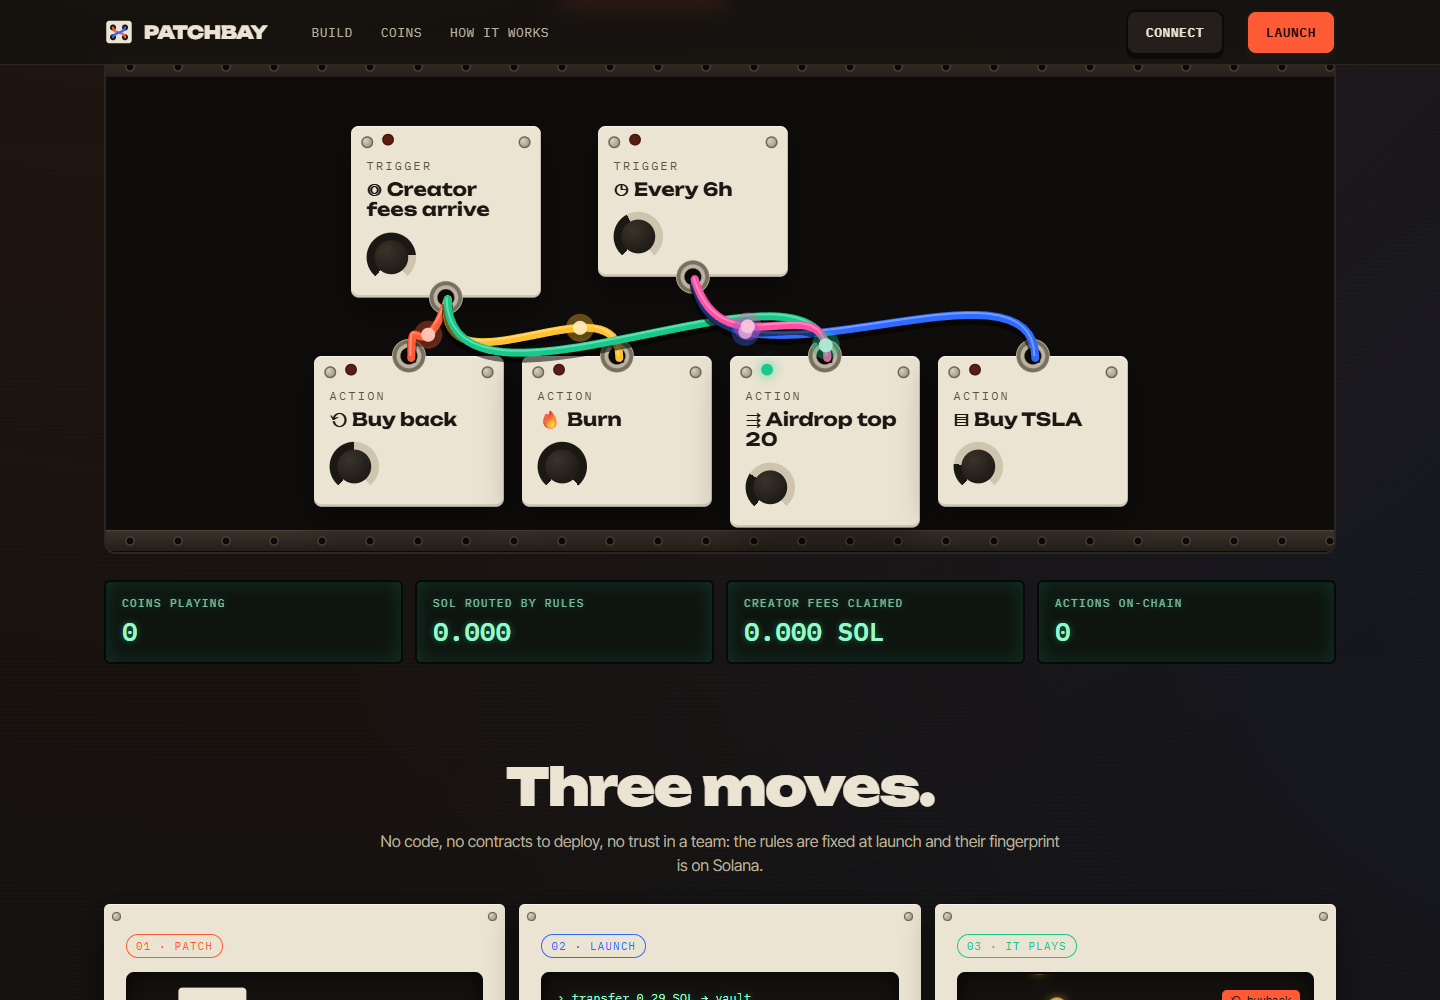
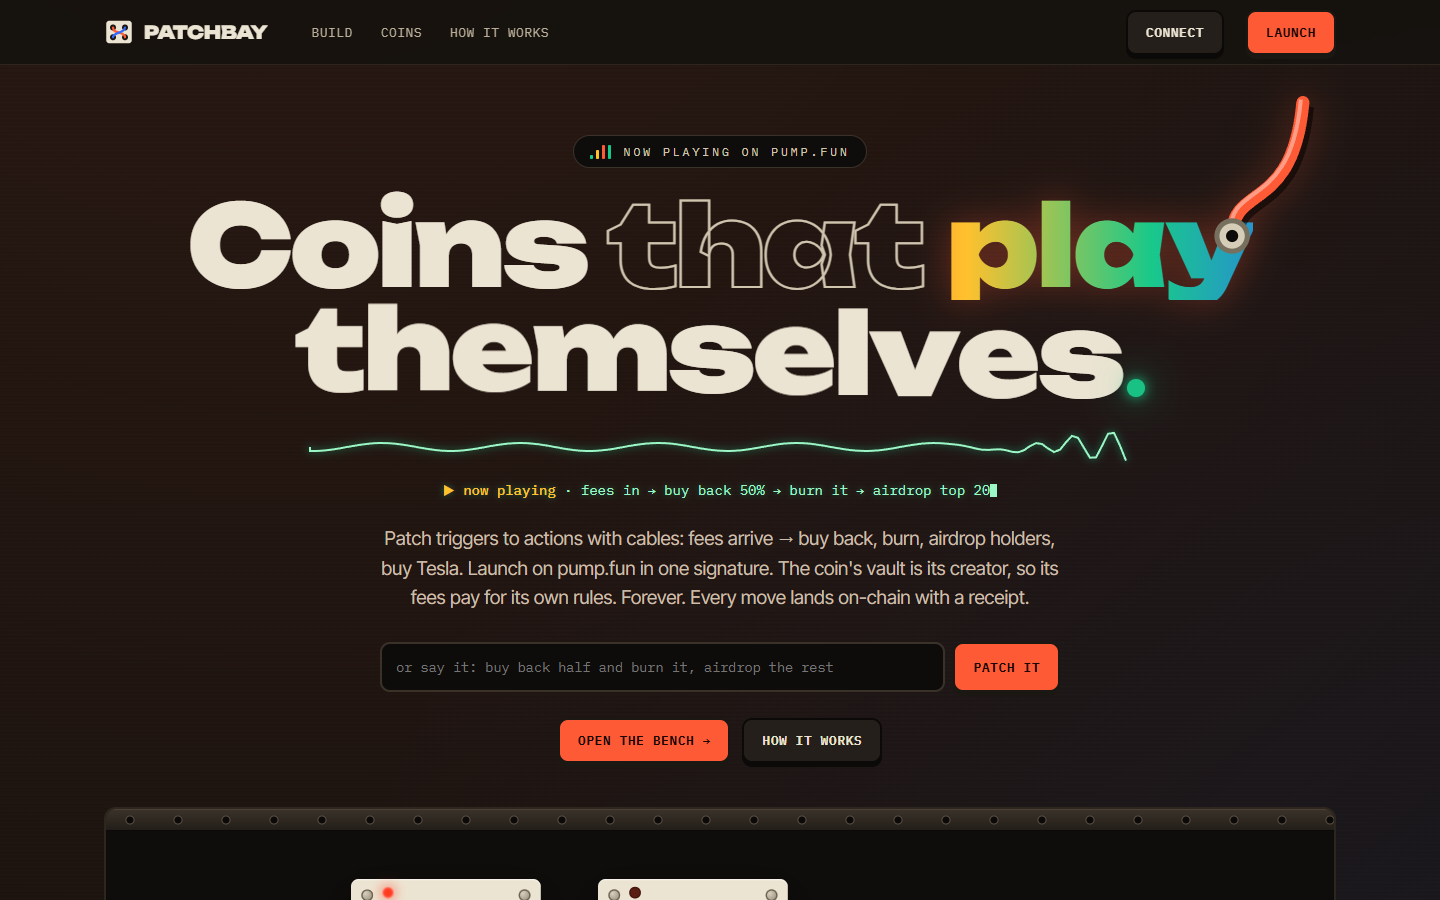
Hero headline as a live signal: flowing cable-colour 'play' with a plugged cable, waving 'themselves' + LED, scope trace, now-playing readout

diff --git a/client/index.html b/client/index.html
@@ -4,7 +4,23 @@
 <meta property="og:title" content="PATCHBAY · coins that play themselves"><meta property="og:description" content="Wire triggers to actions with patch cables. Launch on pump.fun. Your coin runs the patch forever on its own creator fees.">
 <style>
 .hero{text-align:center;padding:70px 0 34px}
-.hero h1{font-size:clamp(50px,7.6vw,118px)}.hero h1 span{color:var(--tom)}
+.hero h1{font-size:clamp(50px,7.8vw,124px);line-height:.98;position:relative;display:inline-block}
+.kick{display:inline-flex;align-items:center;gap:12px;font-family:var(--mono);font-size:12px;letter-spacing:.22em;color:#cfc5af;border:1.5px solid #3a3229;border-radius:99px;padding:8px 16px;background:#0f0d0b}
+.vu{display:inline-flex;gap:3px;align-items:flex-end;height:14px}.vu i{width:3px;background:var(--min);border-radius:1px;animation:vu .9s ease-in-out infinite}.vu i:nth-child(2){animation-delay:.15s;background:var(--mus)}.vu i:nth-child(3){animation-delay:.3s;background:var(--tom)}.vu i:nth-child(4){animation-delay:.45s}
+@keyframes vu{0%,100%{height:3px}50%{height:14px}}
+.l1{display:block;color:var(--panel)}.l1 .that{color:transparent;-webkit-text-stroke:2px #cfc5af;font-style:normal}
+/* "play": the signal itself: cable colours flowing through the letters, glowing, with a cable plugged in */
+.play{position:relative;display:inline-block;background:linear-gradient(90deg,#ff5a36,#ffc12e,#19c98a,#2f6bff,#ff4fa3,#ff5a36);background-size:300% 100%;-webkit-background-clip:text;background-clip:text;color:transparent;animation:flow 6s linear infinite;filter:drop-shadow(0 0 18px rgba(255,90,54,.35))}
+@keyframes flow{to{background-position:300% 0}}
+.plug{position:absolute;right:-.62em;top:-.42em;width:.9em;height:.9em;overflow:visible;pointer-events:none}
+/* "themselves": letters ride a travelling wave; the full stop is an LED */
+.l2{display:block;color:var(--panel);white-space:nowrap}.l2 .ch{display:inline-block;animation:wave 2.6s ease-in-out infinite}
+@keyframes wave{0%,100%{transform:translateY(0)}25%{transform:translateY(-.06em)}50%{transform:translateY(0)}}
+.dot{display:inline-block;width:.16em;height:.16em;border-radius:50%;background:var(--min);box-shadow:0 0 .12em var(--min),0 0 .4em var(--min);margin-left:.04em;animation:ledp 1.6s ease-in-out infinite;vertical-align:baseline}
+@keyframes ledp{50%{opacity:.35;box-shadow:0 0 .05em var(--min)}}
+.scope{display:block;width:min(820px,92%);height:46px;margin:14px auto 0;overflow:visible}
+.scope path{fill:none;stroke:#9cf7c6;stroke-width:2;filter:drop-shadow(0 0 4px rgba(25,201,138,.8))}
+.now{font-family:var(--mono);font-size:14px;color:#9cf7c6;margin-top:10px;min-height:20px;text-shadow:0 0 6px rgba(25,201,138,.5)}.now b{color:var(--mus);font-weight:500}
 .hero p{color:#c9bfab;font-size:19px;line-height:1.55;max-width:680px;margin:24px auto 0}
 .cta{display:flex;gap:12px;margin-top:26px;flex-wrap:wrap;justify-content:center}
 .say{display:flex;gap:8px;margin:30px auto 0;max-width:680px}.say input{flex:1;background:#0e0c0a;border:2px solid #3a3229;border-radius:10px;color:var(--panel);font-family:var(--mono);font-size:13.5px;padding:14px;outline:0}.say input:focus{border-color:var(--mus)}
@@ -41,8 +57,10 @@ h2{font-family:var(--disp);font-weight:900;font-size:clamp(32px,4vw,52px);letter
 </style></head><body>
 <main class="wrap">
 <section class="hero">
- <div><div class="silk" style="color:#8d8372">// patchbay · on pump.fun</div>
-  <h1 class="disp" style="margin-top:16px">Coins that <span>play</span><br>themselves.</h1>
+ <div><div class="kick"><span class="vu"><i></i><i></i><i></i><i></i></span>NOW PLAYING ON PUMP.FUN</div><br>
+  <h1 class="disp" style="margin-top:22px"><span class="l1">Coins <em class="that">that</em> <span class="play">play<svg class="plug" viewBox="0 0 100 100"><path d="M10 92 C 10 40, 70 70, 80 -40" stroke="#0008" stroke-width="16" fill="none" transform="translate(3,4)"/><path d="M10 92 C 10 40, 70 70, 80 -40" stroke="#ff5a36" stroke-width="13" fill="none" stroke-linecap="round"/><path d="M10 92 C 10 40, 70 70, 80 -40" stroke="#fff6" stroke-width="4" fill="none" transform="translate(-2,-3)"/><circle cx="10" cy="92" r="15" fill="#d6cdb9" stroke="#77705f" stroke-width="5"/><circle cx="10" cy="92" r="6" fill="#0d0b09"/></svg></span></span><span class="l2" id="l2">themselves</span></h1>
+  <svg class="scope" viewBox="0 0 820 46" preserveAspectRatio="none"><path id="scope"/></svg>
+  <div class="now" id="now"></div>
   <p>Patch triggers to actions with cables: fees arrive → buy back, burn, airdrop holders, buy Tesla. Launch on pump.fun in one signature. The coin's vault is its creator, so its fees pay for its own rules. Forever. Every move lands on-chain with a receipt.</p>
   <div class="say"><input id="say" placeholder="or say it: buy back half and burn it, airdrop the rest" autocomplete="off"><button class="btn hot" onclick="location.href='/build?say='+encodeURIComponent($('say').value||$('say').placeholder.replace('or say it: ',''))">Patch it</button></div>
   <div class="cta"><a class="btn hot" href="/build">Open the bench →</a><a class="btn dark" href="/docs">How it works</a></div></div>
@@ -97,6 +115,16 @@ function heroFrame(t) { let h = ''; HW.forEach(([a, b, c], k) => { const [x1, y1
 setInterval(() => { const h = [...crypto.getRandomValues(new Uint8Array(6))].map((b) => b.toString(16).padStart(2, '0')).join(''); $('hash').textContent = 'sha256 ' + h + '…'; }, 140);
 const io = new IntersectionObserver((es) => es.forEach((e) => { if (e.isIntersecting) { e.target.classList.add('in'); io.unobserve(e.target); } }), { threshold: .12 });
 const watch = () => document.querySelectorAll('.rv:not(.in)').forEach((el, i) => { el.style.transitionDelay = (i % 3) * 90 + 'ms'; io.observe(el); });
+// headline: wave the letters of "themselves", end on an LED
+$('l2').innerHTML = [...'themselves'].map((c, i) => `<span class="ch" style="animation-delay:${i * .09}s">${c}</span>`).join('') + '<span class="dot"></span>';
+// oscilloscope trace under the headline: a travelling signal with a pulse running through it
+(function scope() { const p = $('scope'); let t0 = performance.now(); const draw = () => { const t = (performance.now() - t0) / 1000; let d = 'M0 23';
+  for (let x = 0; x <= 820; x += 6) { const ph = x / 820, pulse = Math.exp(-Math.pow(((ph - ((t * .35) % 1.4) + .2)) * 9, 2)); d += ' L' + x + ' ' + (23 + Math.sin(x / 22 - t * 5) * 4 * (1 - pulse) - pulse * 18 * Math.sin(x / 6)).toFixed(1); }
+  p.setAttribute('d', d); }; setInterval(draw, 40); draw(); })();
+// "now playing": types out real patches, one after another
+(function now() { const P = ['fees in → buy back 50% → burn it → airdrop top 20', 'every 6h → pay one random holder', 'mcap passes $100k → burn 50% of held', 'fees in → buy TSLA with half → airdrop the rest', 'price −20% in 1h → buy the dip'];
+  let k = 0, c = 0, hold = 0; setInterval(() => { const line = P[k]; if (c < line.length) c += 1; else if (++hold > 40) { hold = 0; c = 0; k = (k + 1) % P.length; }
+    $('now').innerHTML = '<b>▶ now playing</b> · ' + esc(line.slice(0, c)) + '<span class="cur"></span>'; }, 45); })();
 heroLayout(); new ResizeObserver(heroLayout).observe(sy); let rafOk = 0; (function loop(t) { rafOk = 1; heroFrame(t || performance.now()); requestAnimationFrame(loop); })(); setInterval(() => { if (!rafOk) heroFrame(performance.now()); rafOk = 0; }, 60);
 // recipes
 const RC = [['The Furnace', 'buy back 70% and burn, keep the rest', ['#ff5a36', '#ffc12e']], ['Dividend Coin', 'airdrop 80% to top 20 holders, keep the rest', ['#19c98a']], ['Tesla Treasury', 'When fees come in, buy Tesla with half and airdrop the rest to holders.', ['#2f6bff', '#19c98a']],
